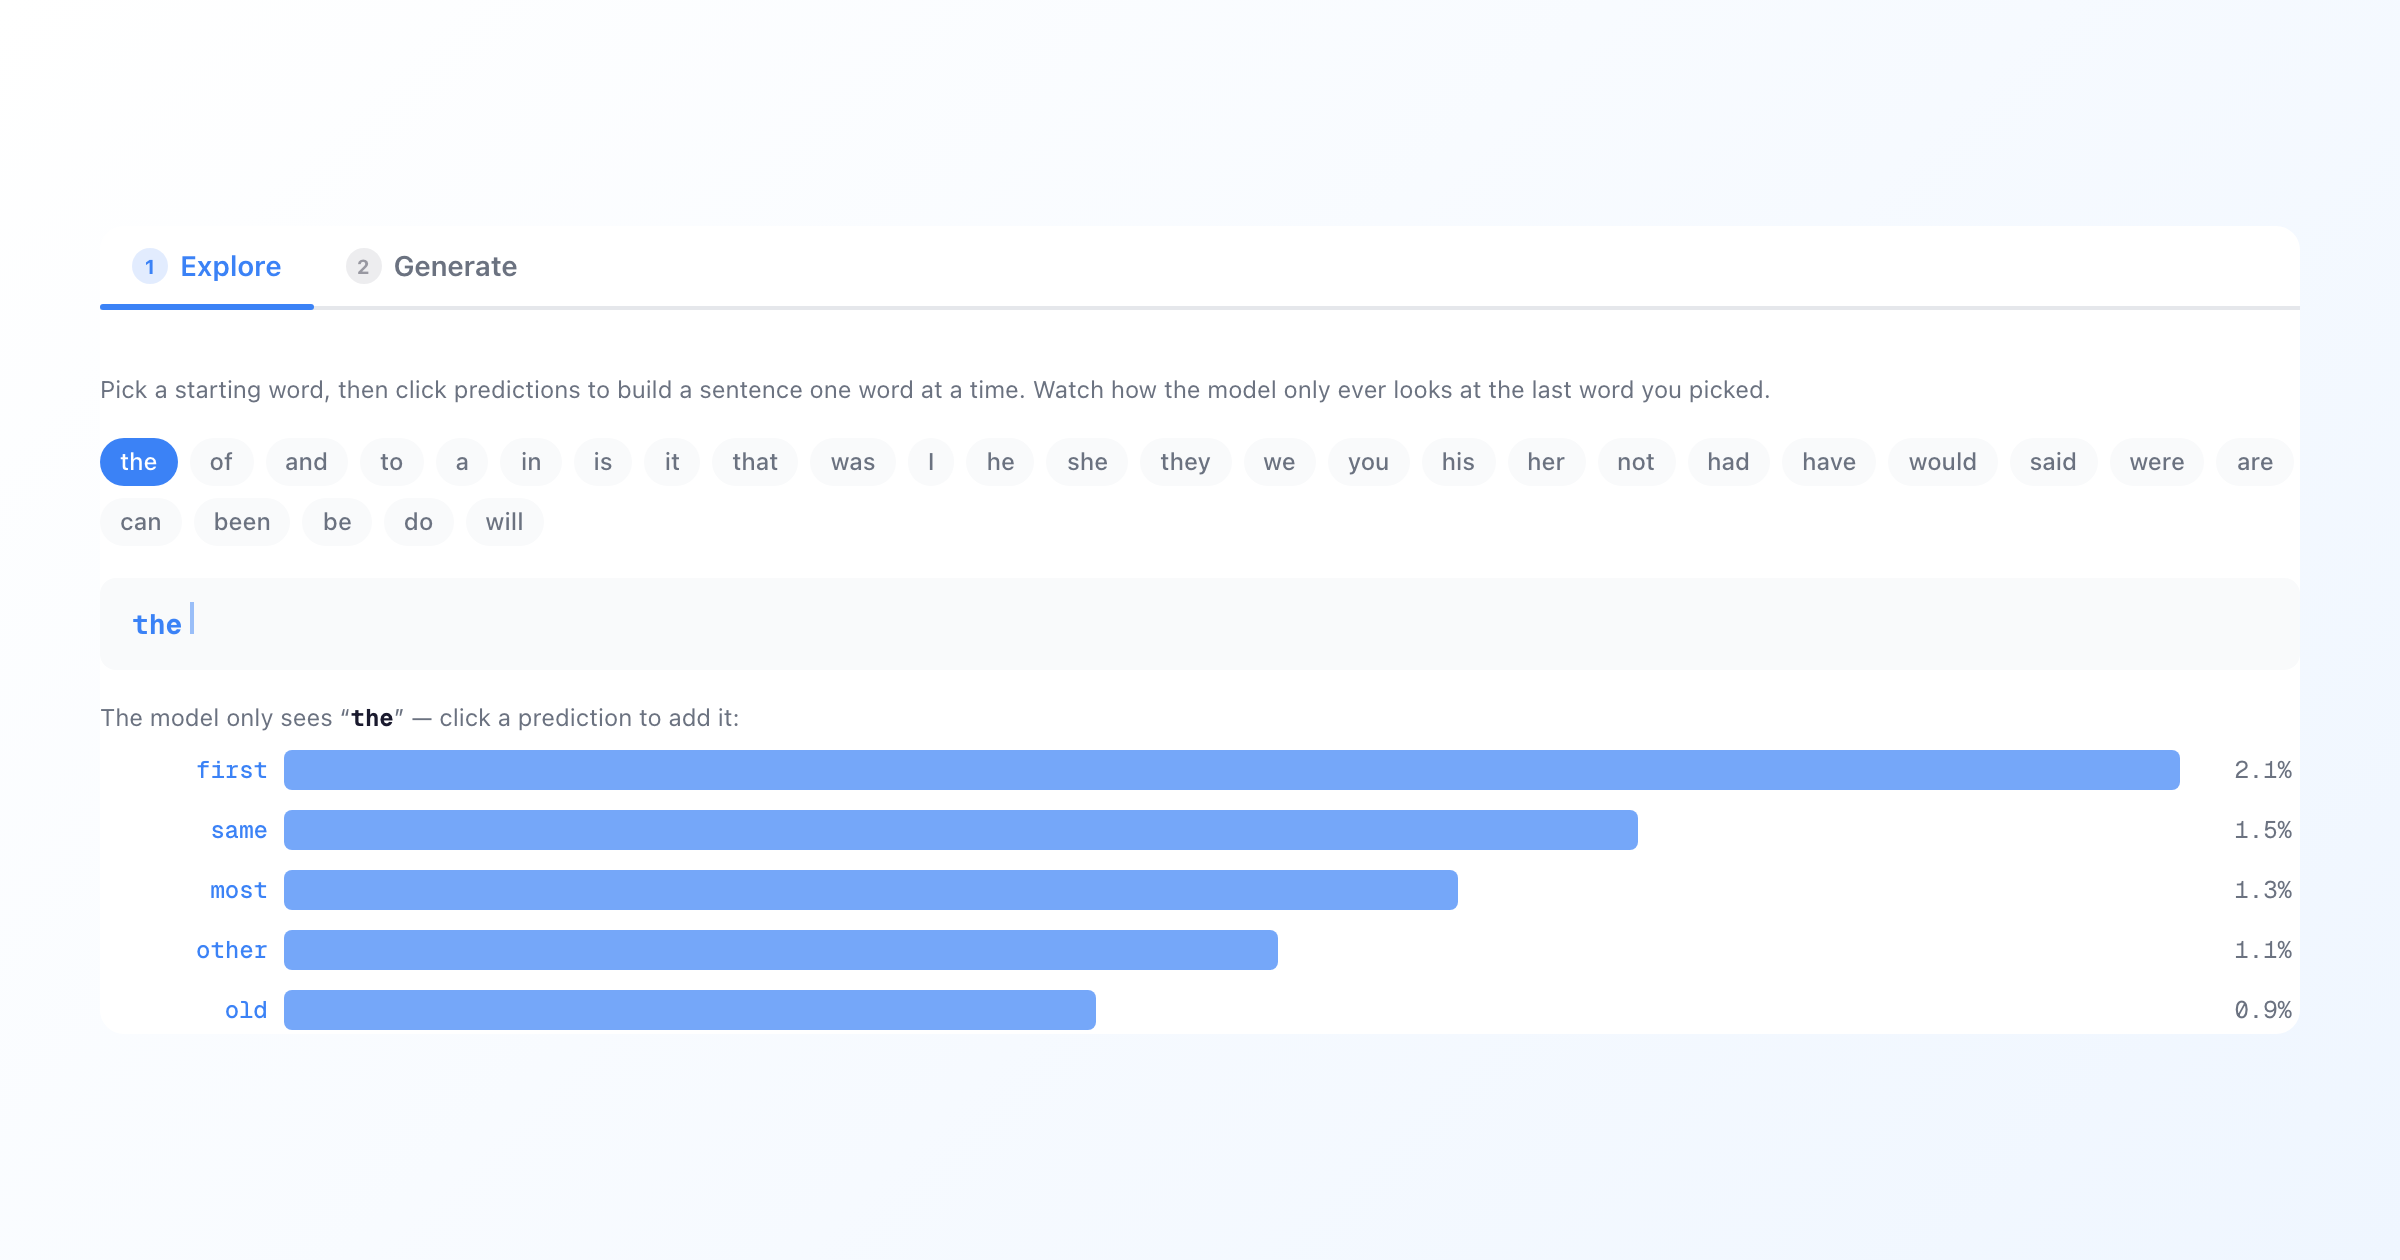
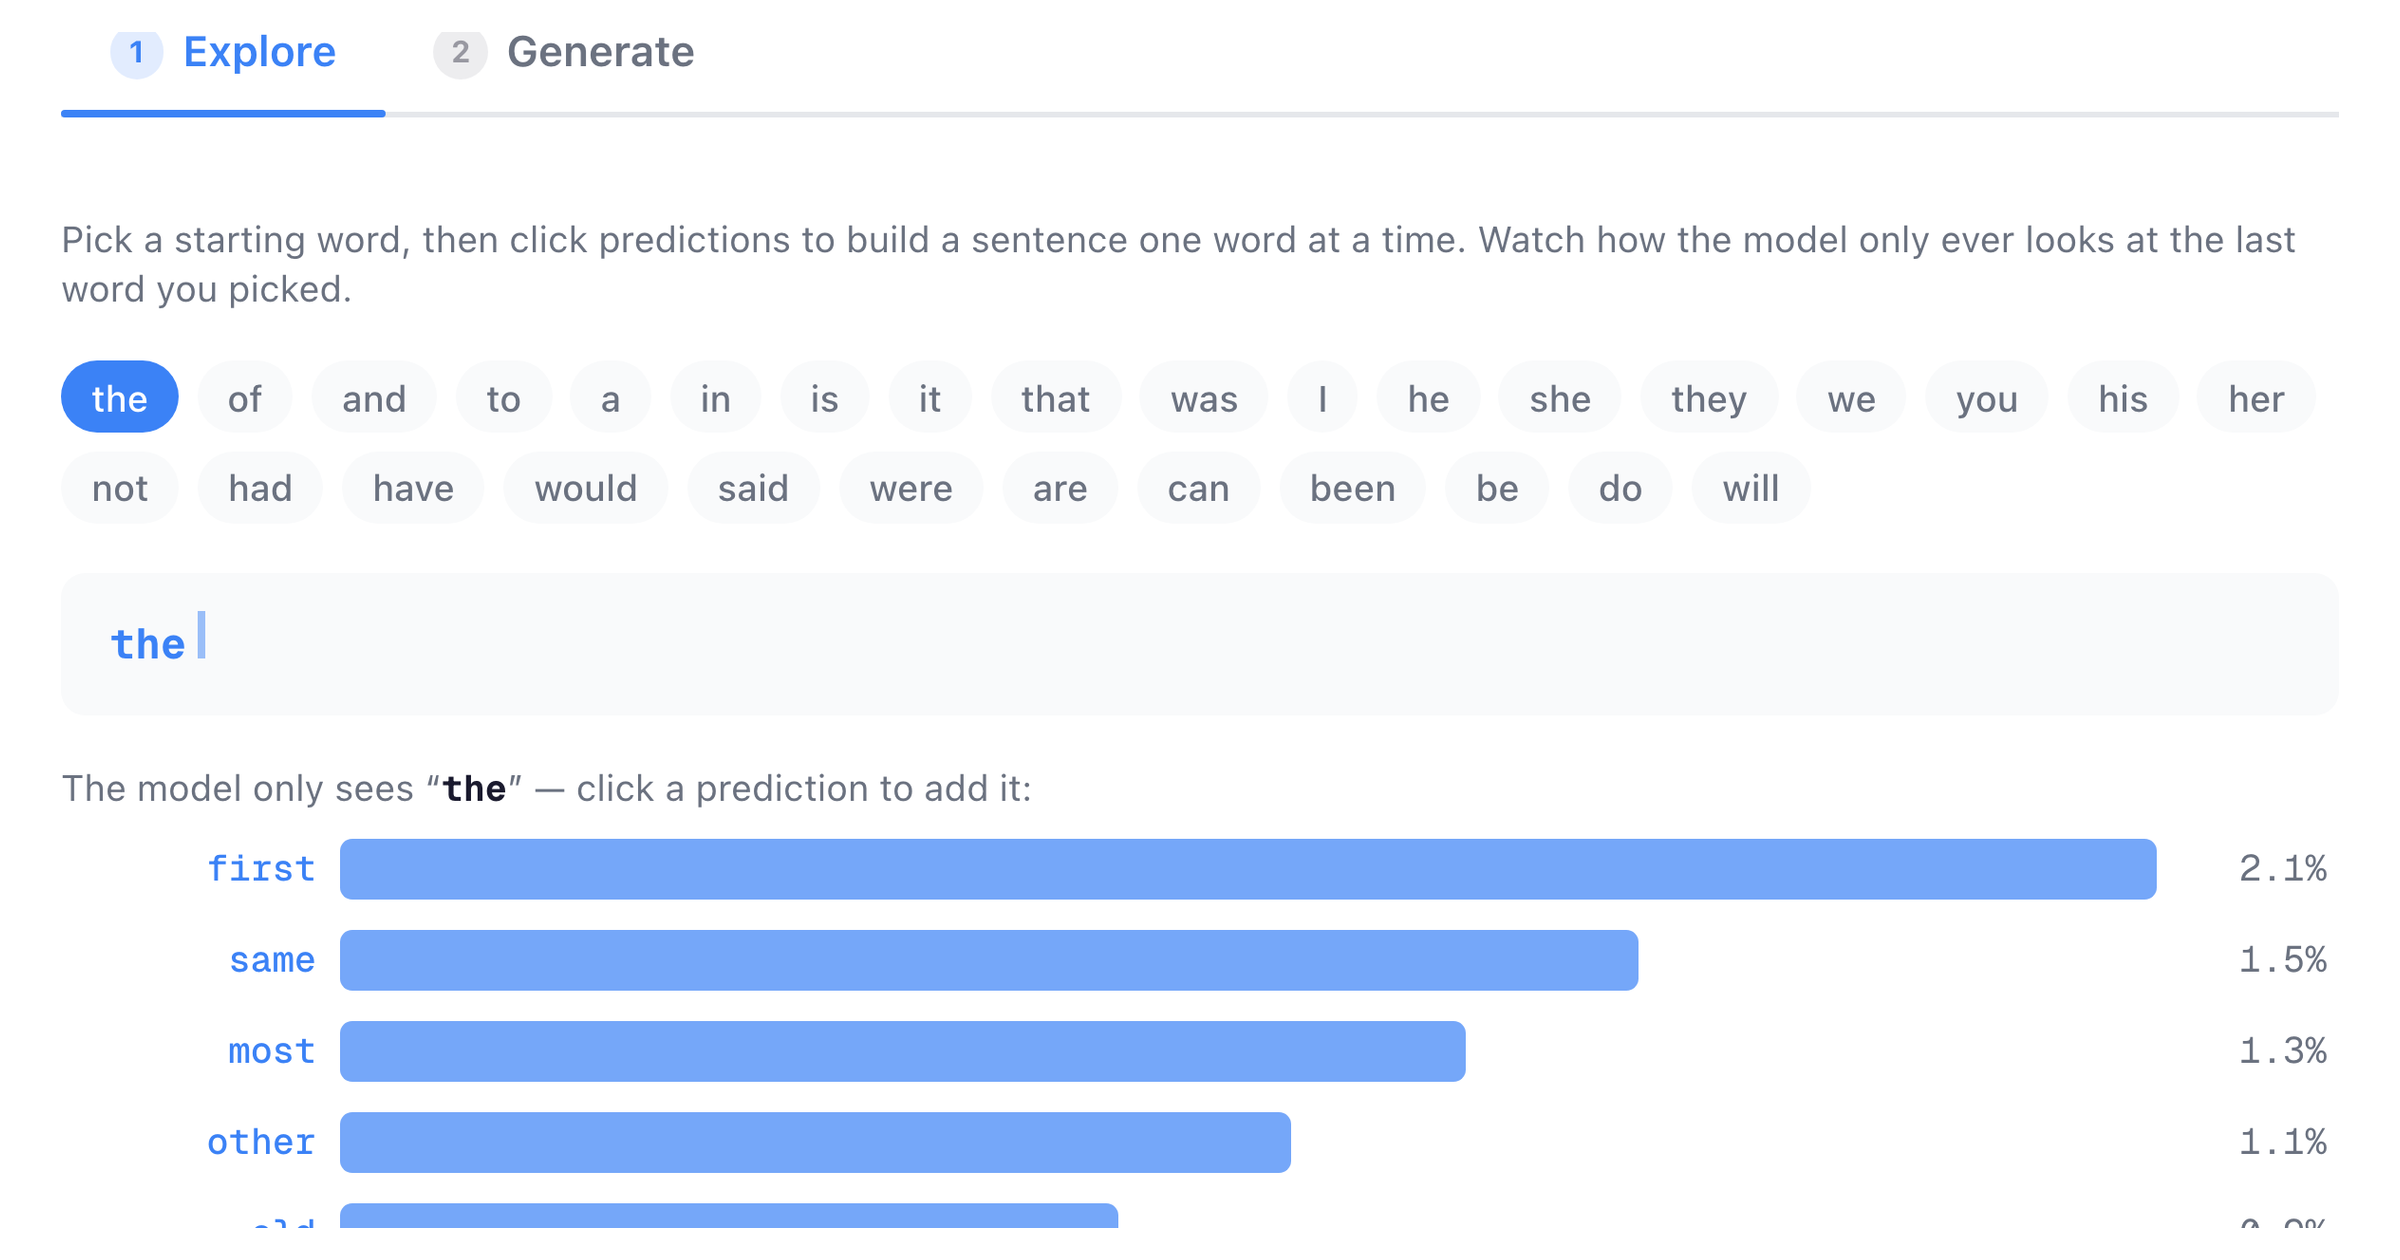
feat: refine OG images — new picks, fill canvas, auto-crop whitespace
- Curated picks per chapter (computation→ImageTab, optimization→SmoothVsRugged,
  neurons→NeuronFreePlay, embeddings→EmbeddingClassifier, positions→RotationToyTokens)
- Borderless OgCard: widget fills full 1200×630 canvas, no padding/border
- New scripts/crop-og-images.ts: trims near-white borders with sharp.trim
  and re-pads to 2400×1260 white canvas, preserving social aspect ratio
- Drop CSS zoom on attention (SVG arc miscalculated under zoom)
- Hide TransformerOverview's aria-live status hint in OG card
- Wrap vectors in 720px container so the responsive widget reflows taller

diff --git a/src/lib/og-diagrams.tsx b/src/lib/og-diagrams.tsx
@@ -2,18 +2,22 @@
 // The diagram mounts in its initial state; the OG route's CSS frames it.
 // Chapters without an entry get a clean text-only OG card.
 //
+// Each entry can wrap the widget in a container that scales it (CSS `zoom`)
+// to fill the 1200×630 canvas. Scale factors are tuned per-widget by visual
+// inspection of the captured PNG.
+//
 // To swap a chapter's OG diagram, edit its `case` below and re-run
-// `pnpm og:capture` (with the dev or prod server running).
+// `pnpm og:capture` (with the prod or dev server running).
 
 import type { ReactNode } from "react";
-import { NumbersEverywhereWidget } from "@/app/(tutorial)/computation/widgets";
-import { Gradient2DCurveWidget } from "@/app/(tutorial)/optimization/widgets";
-import { NetworkOverviewWidget } from "@/app/(tutorial)/neurons/widgets";
+import { ImageTab } from "@/components/widgets/computation/NumbersEverywhere";
+import { SmoothVsRuggedWidget } from "@/app/(tutorial)/optimization/widgets";
+import { NeuronFreePlayWidget } from "@/app/(tutorial)/neurons/widgets";
 import { AmplifiedAnimalExplorerWidget } from "@/app/(tutorial)/vectors/widgets";
-import { EmbeddingArithmeticWidget } from "@/app/(tutorial)/embeddings/widgets";
+import { EmbeddingClassifierWidget } from "@/app/(tutorial)/embeddings/widgets";
 import { BigramExplorerWidget } from "@/app/(tutorial)/next-word-prediction/widgets";
 import { ToyAttentionWidget } from "@/app/(tutorial)/attention/widgets";
-import { WordOrderMattersWidget } from "@/app/(tutorial)/positions/widgets";
+import { RotationToyTokensWidget } from "@/app/(tutorial)/positions/widgets";
 import { TransformerOverviewWidget } from "@/app/(tutorial)/transformers/widgets";
 
 export interface OgDiagram {
@@ -21,26 +25,63 @@ export interface OgDiagram {
   node: ReactNode;
 }
 
+// Wraps a widget in a CSS zoom container so it fills more of the 1200×630
+// canvas. Zoom is non-standard but works in Chromium (which Playwright uses).
+function zoomed(zoom: number, children: ReactNode): ReactNode {
+  return (
+    <div
+      style={{
+        zoom,
+        width: "100%",
+        display: "flex",
+        alignItems: "center",
+        justifyContent: "center",
+      }}
+    >
+      {children}
+    </div>
+  );
+}
+
 export function getOgDiagram(slug: string): OgDiagram | null {
   switch (slug) {
     case "computation":
-      return { node: <NumbersEverywhereWidget /> };
+      // Image tab from Numbers Everywhere — pixel grid is the visual hook.
+      return { node: zoomed(2.0, <ImageTab />) };
     case "optimization":
-      return { node: <Gradient2DCurveWidget /> };
+      // Two side-by-side landscapes — smooth vs. rugged.
+      return { node: zoomed(1.4, <SmoothVsRuggedWidget />) };
     case "neurons":
-      return { node: <NetworkOverviewWidget /> };
+      // Your First Neuron — the canonical perceptron playground.
+      return { node: zoomed(1.5, <NeuronFreePlayWidget />) };
     case "vectors":
-      return { node: <AmplifiedAnimalExplorerWidget /> };
+      // Animal trait sliders — squeezed narrower so the responsive widget
+      // reflows taller and fills more of the canvas.
+      return {
+        node: (
+          <div style={{ width: 720 }}>
+            <AmplifiedAnimalExplorerWidget />
+          </div>
+        ),
+      };
     case "embeddings":
-      return { node: <EmbeddingArithmeticWidget /> };
+      // Classifier heatmap — colorful + visual, less text-heavy than arithmetic.
+      return { node: zoomed(1.4, <EmbeddingClassifierWidget />) };
     case "next-word-prediction":
-      return { node: <BigramExplorerWidget /> };
+      // Probability bars — zoomed to fill canvas.
+      return { node: zoomed(1.6, <BigramExplorerWidget />) };
     case "attention":
+      // Toy attention — cat ← it arrow with KEY/QUERY values. No zoom:
+      // the SVG arc uses absolute coordinates that mis-align under CSS
+      // zoom. The crop script upscales the trimmed content to fill.
       return { node: <ToyAttentionWidget /> };
     case "positions":
-      return { node: <WordOrderMattersWidget /> };
+      // "Applying Rotation to a Dimension" — visual rotation of a single
+      // dimension pair, less wide than WordOrderMatters.
+      return { node: <RotationToyTokensWidget /> };
     case "transformers":
-      return { node: <TransformerOverviewWidget /> };
+      // Layer-by-layer overview of a small transformer.
+      return { node: zoomed(1.5, <TransformerOverviewWidget />) };
     default:
       return null;
   }

diff --git a/scripts/crop-og-images.ts b/scripts/crop-og-images.ts
@@ -1,0 +1,107 @@
+// Auto-crops whitespace from OG images, then re-pads them back to the
+// original 2400x1260 (1200x630 logical) canvas so social platforms still
+// receive the standard aspect ratio.
+//
+// Usage:
+//   pnpm og:crop                   # crop all chapter PNGs in public/og/
+//   pnpm og:crop -- attention.png  # crop a specific file
+//
+// Skips site.png — that one is a deliberately-positioned branded card.
+//
+// Strategy: sharp.trim() removes pixels matching the top-left corner up to
+// a tolerance (so near-white anti-aliased edges still trim). We then extend
+// the trimmed image back to the canvas with a margin, white background.
+
+import sharp from "sharp";
+import { readdir } from "node:fs/promises";
+import path from "node:path";
+
+const OG_DIR = path.resolve(process.cwd(), "public/og");
+const CANVAS_WIDTH = 2400;
+const CANVAS_HEIGHT = 1260;
+const MARGIN = 32; // px of breathing room around content (in 2x pixels)
+const TRIM_THRESHOLD = 12; // 0–255; how far from top-left pixel still counts as "background"
+const SKIP = new Set(["site.png"]);
+
+async function cropOne(file: string) {
+  const inPath = path.join(OG_DIR, file);
+  const original = sharp(inPath);
+  const meta = await original.metadata();
+  if (!meta.width || !meta.height) {
+    console.warn(`  skipping ${file} — could not read dimensions`);
+    return;
+  }
+
+  // Trim near-white borders. Buffer the result so we can read its size.
+  const trimmed = await sharp(inPath)
+    .trim({ threshold: TRIM_THRESHOLD })
+    .toBuffer({ resolveWithObject: true });
+
+  const { width: tw, height: th } = trimmed.info;
+  if (!tw || !th) {
+    console.warn(`  skipping ${file} — trim produced no content`);
+    return;
+  }
+
+  // Scale the trimmed content to fill the canvas (minus a small margin),
+  // preserving aspect ratio so nothing is cropped. Upscaling is fine —
+  // sharp's lanczos3 default keeps it sharp enough for share-image use.
+  const maxW = CANVAS_WIDTH - 2 * MARGIN;
+  const maxH = CANVAS_HEIGHT - 2 * MARGIN;
+  const scale = Math.min(maxW / tw, maxH / th);
+  const targetW = Math.round(tw * scale);
+  const targetH = Math.round(th * scale);
+
+  const resized = await sharp(trimmed.data)
+    .resize(targetW, targetH, { fit: "inside" })
+    .toBuffer();
+
+  // Center the resized content on a white 2400x1260 canvas.
+  await sharp({
+    create: {
+      width: CANVAS_WIDTH,
+      height: CANVAS_HEIGHT,
+      channels: 3,
+      background: { r: 255, g: 255, b: 255 },
+    },
+  })
+    .composite([
+      {
+        input: resized,
+        top: Math.round((CANVAS_HEIGHT - targetH) / 2),
+        left: Math.round((CANVAS_WIDTH - targetW) / 2),
+      },
+    ])
+    .png()
+    .toFile(inPath);
+
+  console.log(
+    `  ${file}: trimmed ${meta.width}x${meta.height} → content ${tw}x${th} → fit ${targetW}x${targetH}`,
+  );
+}
+
+async function main() {
+  const onlyArgs = process.argv.slice(2).filter((a) => !a.startsWith("-"));
+  let files: string[];
+  if (onlyArgs.length > 0) {
+    files = onlyArgs.map((f) => path.basename(f));
+  } else {
+    const entries = await readdir(OG_DIR);
+    files = entries.filter((f) => f.endsWith(".png") && !SKIP.has(f));
+  }
+
+  console.log(`Cropping ${files.length} OG image(s)…`);
+  for (const file of files) {
+    if (SKIP.has(file)) {
+      console.log(`  skipping ${file} (branded card)`);
+      continue;
+    }
+    await cropOne(file);
+  }
+  console.log("Done.");
+}
+
+main().catch((err) => {
+  console.error(err);
+  process.exit(1);
+});

diff --git a/src/app/og/OgCard.tsx b/src/app/og/OgCard.tsx
@@ -1,18 +1,26 @@
 import type { ReactNode } from "react";
 
-// Diagram-only OG frame: 1200×630 with the widget centered, no title or
-// brand chrome. The platform (Twitter / Slack / etc.) renders the page
-// title and description below the image, so we don't repeat them here.
+// Diagram-only OG frame: 1200×630 with the widget filling the canvas, no
+// title or brand chrome. The platform (Twitter / Slack / etc.) renders the
+// page title and description below the image, so we don't repeat them here.
 //
-// We also hide the WidgetContainer's header bar, "Go to Next Tab" footer,
-// and TryIt panel — none of those belong in a static share image.
+// We strip the WidgetContainer's header bar, "Go to Next Tab" footer, and
+// TryIt panel — none of those belong in a static share image.
 
 const HIDE_CHROME_CSS = `
-  .og-frame .widget-container { box-shadow: none; border: none; }
-  .og-frame .widget-container > div:first-child { display: none; }
-  .og-frame .widget-container > div.border-t { display: none; }
-  .og-frame .widget-container > div.p-5 > div.mt-10.justify-center { display: none; }
-  .og-frame .widget-container > div.p-5 { padding: 0; }
+  .og-frame .widget-container {
+    box-shadow: none !important;
+    border: none !important;
+    border-radius: 0 !important;
+    margin: 0 !important;
+    background: transparent !important;
+  }
+  .og-frame .widget-container > div:first-child { display: none !important; }
+  .og-frame .widget-container > div.border-t { display: none !important; }
+  .og-frame .widget-container > div.p-5 > div.mt-10.justify-center { display: none !important; }
+  .og-frame .widget-container > div.p-5 { padding: 0 !important; }
+  /* TransformerOverview's status hint — only that widget uses aria-live. */
+  .og-frame [aria-live="polite"] { display: none !important; }
 `;
 
 export function OgCard({ children }: { children: ReactNode }) {
@@ -25,30 +33,19 @@ export function OgCard({ children }: { children: ReactNode }) {
         zIndex: 9999,
         width: 1200,
         height: 630,
-        background: "linear-gradient(135deg, #ffffff 0%, #eff6ff 100%)",
+        background: "#ffffff",
         display: "flex",
         alignItems: "center",
         justifyContent: "center",
-        padding: 48,
         boxSizing: "border-box",
+        overflow: "hidden",
         fontFamily:
           'ui-sans-serif, system-ui, -apple-system, "Segoe UI", Roboto, sans-serif',
         color: "#1a1a2e",
       }}
     >
       <style dangerouslySetInnerHTML={{ __html: HIDE_CHROME_CSS }} />
-      <div
-        style={{
-          width: "100%",
-          maxWidth: 1100,
-          maxHeight: 530,
-          display: "flex",
-          alignItems: "center",
-          justifyContent: "center",
-        }}
-      >
-        {children}
-      </div>
+      {children}
     </div>
   );
 }

diff --git a/src/components/widgets/computation/NumbersEverywhere.tsx b/src/components/widgets/computation/NumbersEverywhere.tsx
@@ -88,7 +88,7 @@ function TextTab() {
   );
 }
 
-function ImageTab() {
+export function ImageTab() {
   const [grid, setGrid] = useState<string[][]>(createInitialGrid);
   const [selectedColor, setSelectedColor] = useState("#000000");
   const [hoveredCell, setHoveredCell] = useState<[number, number] | null>(null);
